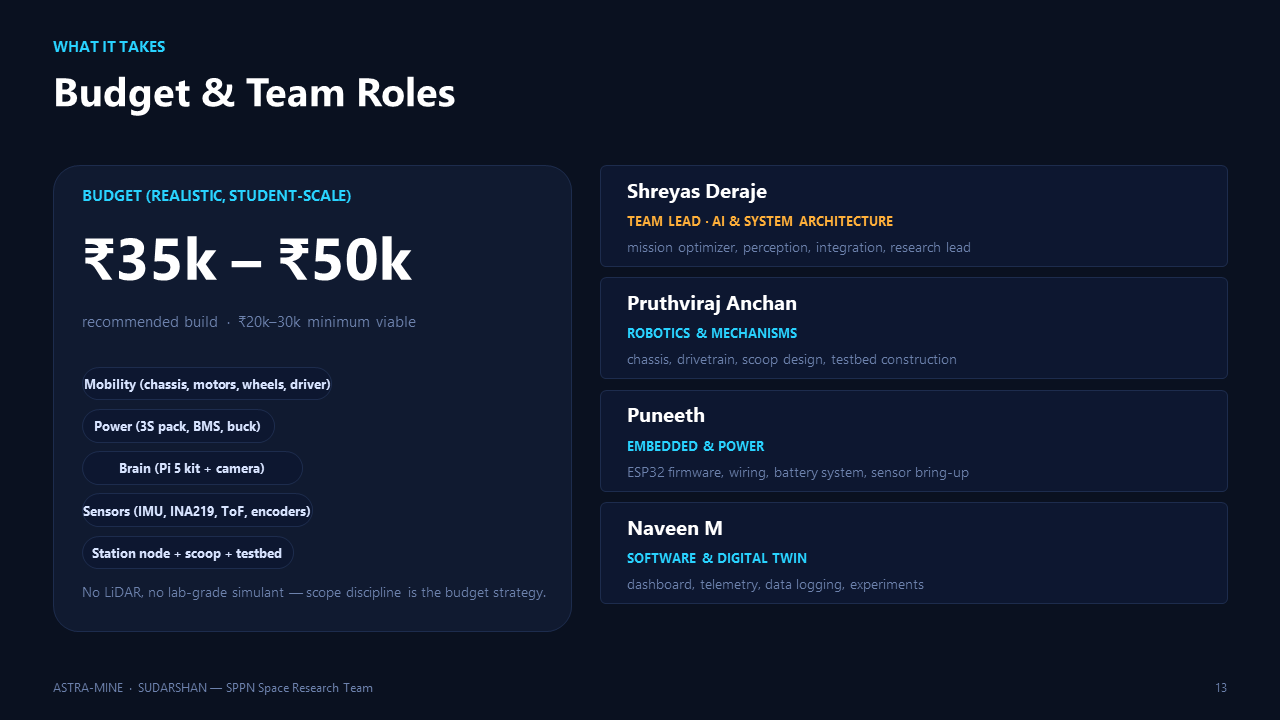
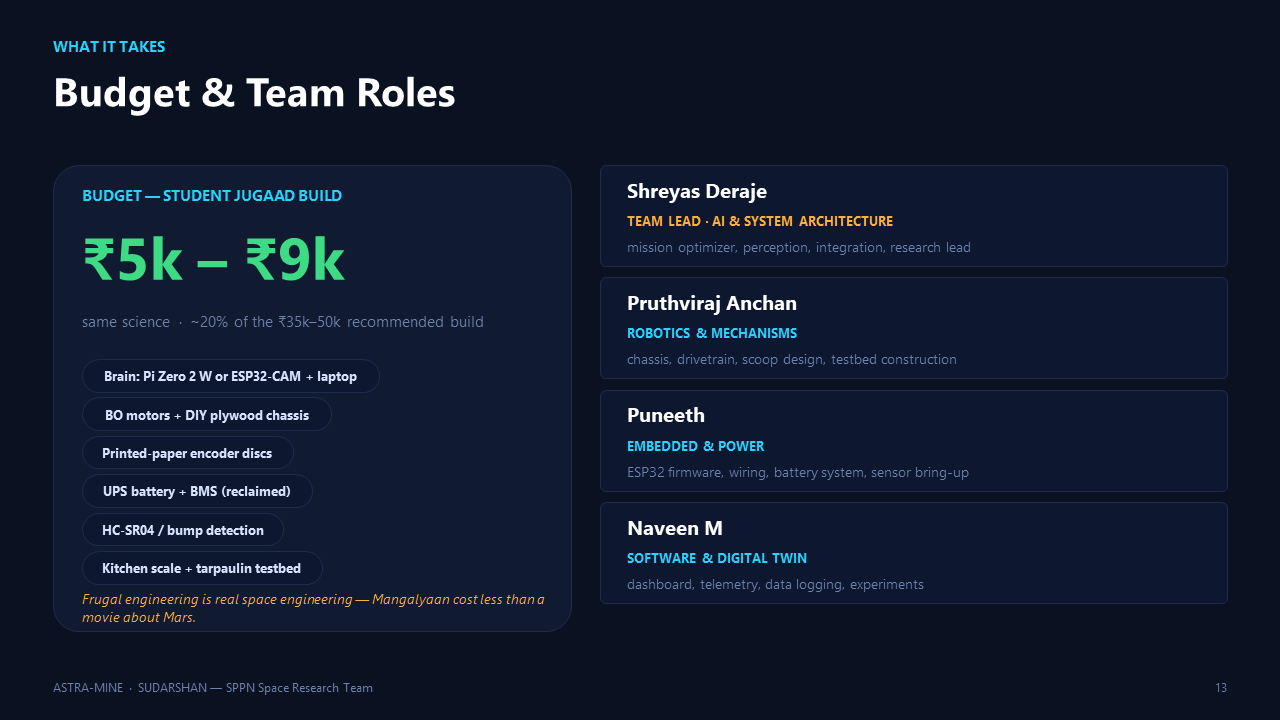
PPT slide 13: budget updated to student jugaad build (Rs.5k-9k)

diff --git a/presentation/build_deck.py b/presentation/build_deck.py
@@ -510,17 +510,22 @@ txt(s, M, 5.85, 12.2, 0.6,
 s = slide_new(); kicker(s, "What it takes"); title(s, "Budget & Team Roles")
 footer(s, 13)
 box(s, M, 1.72, 5.4, 4.85, fill=PANEL)
-txt(s, M + 0.3, 1.95, 4.8, 0.3, "BUDGET (REALISTIC, STUDENT-SCALE)", size=11, color=PRIMARY, bold=True)
-txt(s, M + 0.3, 2.32, 4.8, 0.8, "\u20b935k \u2013 \u20b950k", size=44, color=WHITE, bold=True)
-txt(s, M + 0.3, 3.25, 4.8, 0.4, "recommended build  \u00b7  \u20b920k\u201330k minimum viable", size=11.5, color=MUTED)
-split = [("Mobility (chassis, motors, wheels, driver)", 2.6), ("Power (3S pack, BMS, buck)", 2.0),
-         ("Brain (Pi 5 kit + camera)", 2.3), ("Sensors (IMU, INA219, ToF, encoders)", 2.4),
-         ("Station node + scoop + testbed", 2.2)]
-yy = 3.82
+txt(s, M + 0.3, 1.95, 4.8, 0.3, "BUDGET — STUDENT JUGAAD BUILD", size=11, color=PRIMARY, bold=True)
+txt(s, M + 0.3, 2.32, 4.8, 0.8, "\u20b95k \u2013 \u20b99k", size=44, color=GREEN, bold=True)
+txt(s, M + 0.3, 3.25, 4.8, 0.4, "same science  \u00b7  ~20% of the \u20b935k\u201350k recommended build", size=11.5, color=MUTED)
+split = [
+    ("Brain: Pi Zero 2 W or ESP32-CAM + laptop", 3.1),
+    ("BO motors + DIY plywood chassis", 2.6),
+    ("Printed-paper encoder discs", 2.2),
+    ("UPS battery + BMS (reclaimed)", 2.4),
+    ("HC-SR04 / bump detection", 2.1),
+    ("Kitchen scale + tarpaulin testbed", 2.5),
+]
+yy = 3.74
 for t, w in split:
-    chip(s, M + 0.3, yy, w, t, size=9.5, fill=PANEL2); yy += 0.44
-txt(s, M + 0.3, 6.08, 4.85, 0.4, "No LiDAR, no lab-grade simulant \u2014 scope discipline is the budget strategy.",
-    size=10.5, color=MUTED, spacing=1.05)
+    chip(s, M + 0.3, yy, w, t, size=9.5, fill=PANEL2); yy += 0.40
+txt(s, M + 0.3, 6.16, 4.85, 0.4, "Frugal engineering is real space engineering \u2014 Mangalyaan cost less than a movie about Mars.",
+    size=10.5, color=ACCENT, italic=True, spacing=1.05)
 roles = [
     ("Shreyas Deraje", "TEAM LEAD \u00b7 AI & SYSTEM ARCHITECTURE", "mission optimizer, perception, integration, research lead"),
     ("Pruthviraj Anchan", "ROBOTICS & MECHANISMS", "chassis, drivetrain, scoop design, testbed construction"),
